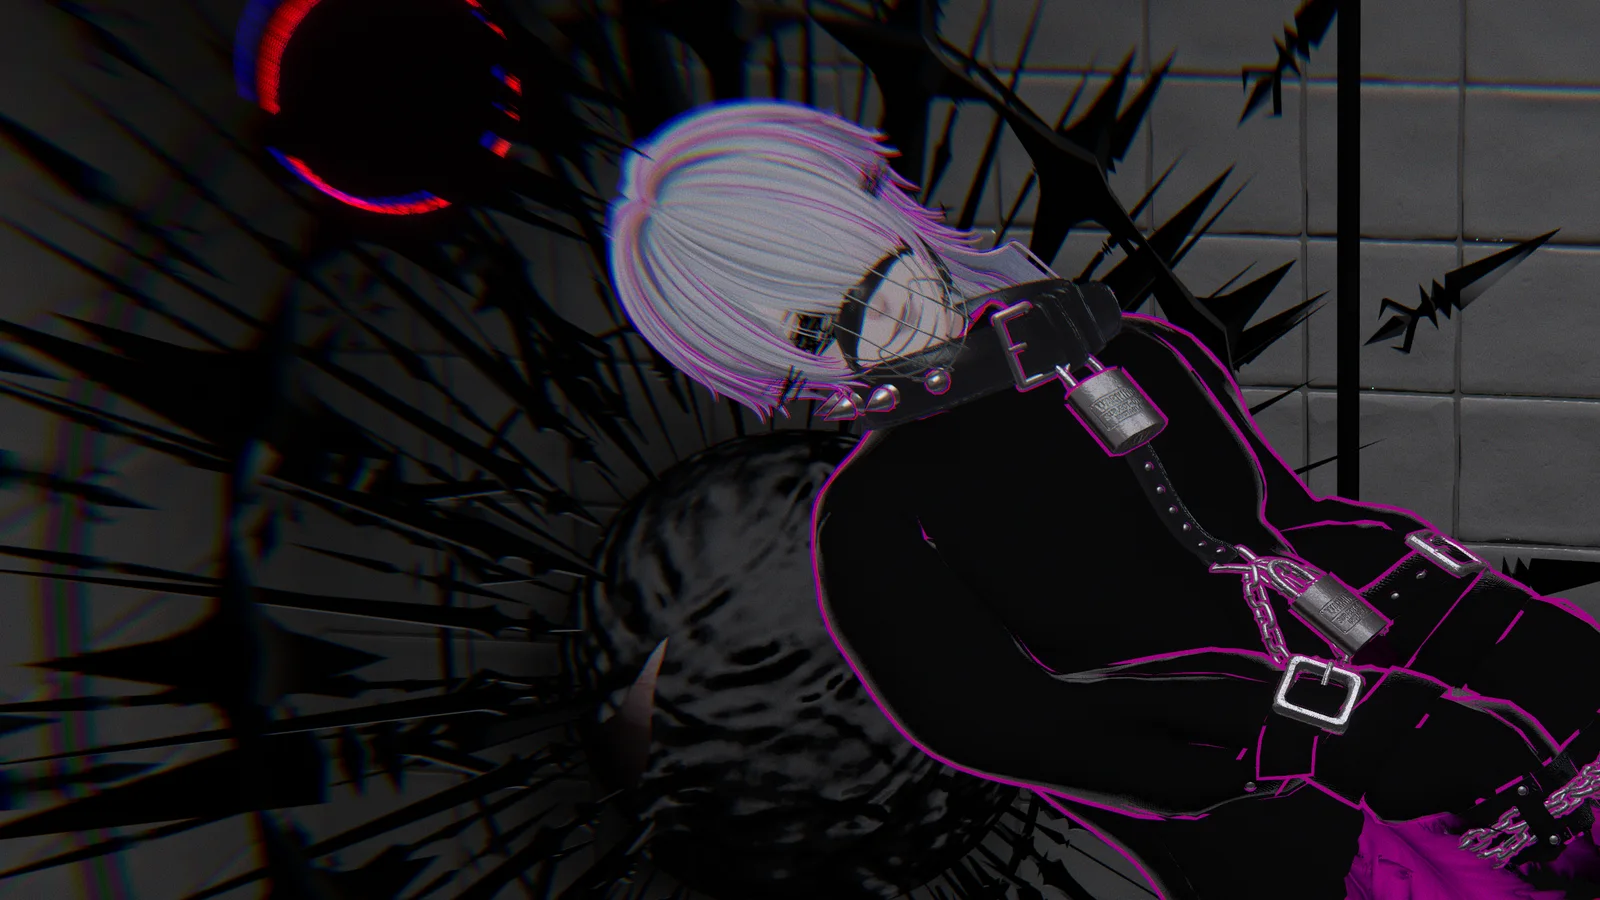
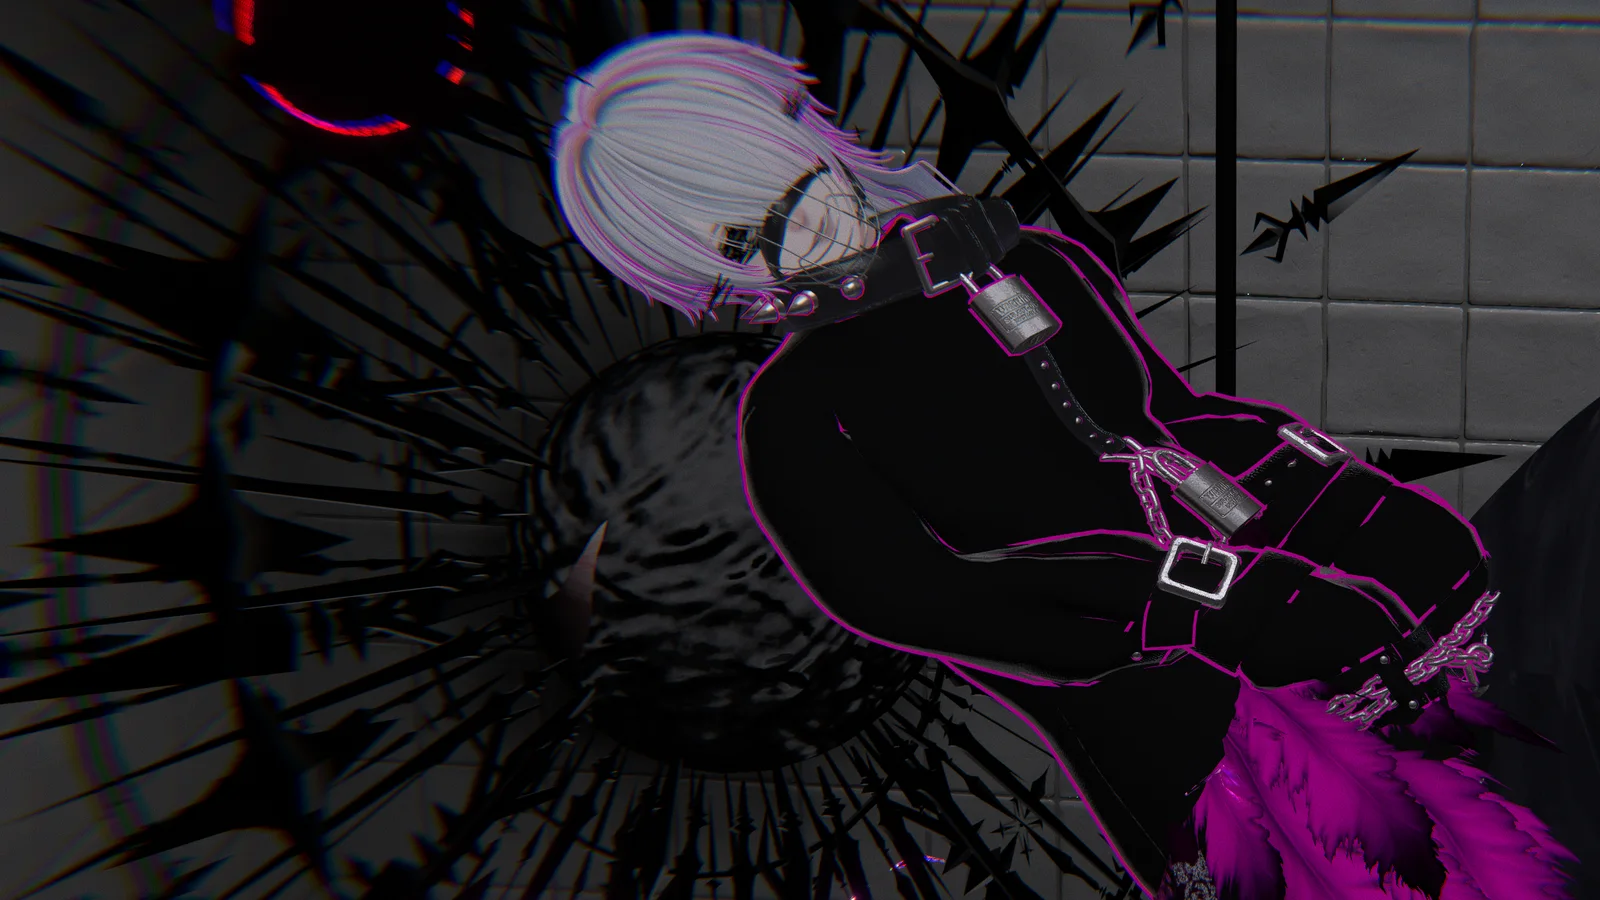
実験体紹介:モルアーテの背景をスマホでも顔が見える切り抜きに
Claude-Session: https://claude.ai/code/session_01ELTLG51KjNVSeFYK3rQM2j

diff --git a/subject.html b/subject.html
@@ -17,7 +17,7 @@
 <div class="page-head">
   <img class="bg" id="head-bg" src="img/subject-bg.webp" alt="">
   <script>/* 開くたびに背景の実験体を変える(前回と同じものは続けない)。画像は顔が上寄りに来るように切り抜いてある */
-  (function(){var L=["img/subject-bg.webp","img/subject-bg/1.webp","img/subject-bg/2.webp","img/subject-bg/3.webp","img/subject-bg/4.webp","img/subject-bg/5.webp","img/subject-bg/6.webp"];
+  (function(){var L=["img/subject-bg.webp","img/subject-bg/1.webp","img/subject-bg/2.webp","img/subject-bg/3.webp","img/subject-bg/4.webp","img/subject-bg/5.webp","img/subject-bg/6.webp?v=2"];
   var m=/[?&]bg=(\d)/.exec(location.search),i,last=-1;try{last=+localStorage.getItem("ag-subject-bg")}catch(e){}
   if(m)i=+m[1]-1;else{do{i=Math.floor(Math.random()*L.length)}while(i===last)}
   try{localStorage.setItem("ag-subject-bg",i)}catch(e){}
